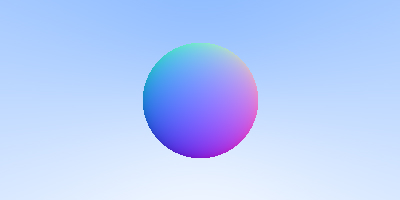
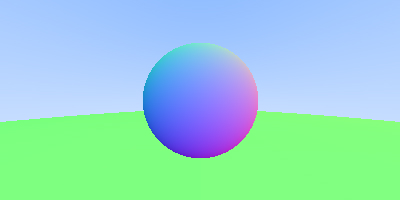
Added hitable classes + drawing the world with 2 spheres

diff --git a/main.cpp b/main.cpp
@@ -6,28 +6,16 @@
 #define STB_IMAGE_WRITE_IMPLEMENTATION
 
 #include "stb_image_write.h"
+#include "hitable.h"
+#include "sphere.h"
+#include "hitable_list.h"
 
 using namespace std;
 
-float hit_sphere(const vec3& center, float radius, const ray& r) {
-    vec3 oc = r.origin() - center;
-    float a = dot(r.direction(), r.direction());
-    float b = 2 * dot(oc, r.direction());
-    float c = dot(oc, oc) - radius*radius;
-    float discriminant = b*b - 4*a*c;
-    if (discriminant < 0) {
-        return -1.0;
-    } else {
-        return (-b - sqrt(discriminant)) / (2.0*a);
-    }
-}
-
-vec3 color(const ray& r) {
-    vec3 sphere_center(0.0, 0.0, -1.0);
-    float t = hit_sphere(sphere_center, 0.5, r);
-    if (t > 0.0) {
-        vec3 N = unit_vector(r.point_at_parameter(t) - sphere_center);
-        return 0.5*vec3(N.x()+1, N.y()+1, N.z()+1);
+vec3 color(const ray& r, hitable *world) {
+    hit_record rec;
+    if (world->hit(r, 0.0, MAXFLOAT, rec)) {
+        return 0.5*vec3(rec.normal.x()+1, rec.normal.y()+1, rec.normal.z()+1);
     }
     vec3 unit_direction = unit_vector(r.direction());
     float w = 0.5*(unit_direction.y() + 1.0);
@@ -61,6 +49,11 @@ int main() {
     vec3 vertical(0.0, -2.0, 0.0);
     vec3 origin(0.0, 0.0, 0.0);
 
+    hitable *list[2];
+    list[0] = new sphere(vec3(0, 0, -1), 0.5);
+    list[1] = new sphere(vec3(0, -100.5, -1), 100);
+    hitable *world = new hitable_list(list, 2);
+
     char *data=(char*)malloc(nx*ny*3);
 
     for (int j = ny-1; j >=0; j--) {
@@ -68,7 +61,7 @@ int main() {
             float u = float(i) / float(nx);
             float v = float(j) / float(ny);
             ray r(origin, upper_left_corner + u*horizontal + v*vertical);
-            vec3 col = color(r);
+            vec3 col = color(r, world);
             int serial_coord = j*nx + i;
             data[serial_coord*3] = char(255.99 * col.r());
             data[serial_coord*3+1] = char(255.99 * col.g());
@@ -77,6 +70,5 @@ int main() {
     }
 
     stbi_write_jpg("helloworld.jpg", nx, ny, 3, data, 100);
-
     return 0;
 }

diff --git a/sphere.h b/sphere.h
@@ -1,0 +1,44 @@
+//
+// Created by Evgeniy Oleinik on 2019-08-01.
+//
+
+#ifndef RAY_TRACER_SPHERE_H
+#define RAY_TRACER_SPHERE_H
+
+#include "hitable.h"
+
+class sphere: public hitable {
+public:
+    sphere() {}
+    sphere(vec3 cen, float r) {center = cen; radius = r;}
+    virtual bool hit(const ray& r, float t_min, float t_max, hit_record& rec) const;
+    vec3 center;
+    float radius;
+};
+
+bool sphere::hit(const ray& r, float t_min, float t_max, hit_record& rec) const {
+    vec3 oc = r.origin() - center;
+    float a = dot(r.direction(), r.direction());
+    float b = 2 * dot(oc, r.direction());
+    float c = dot(oc, oc) - radius*radius;
+    float discriminant = b*b - 4*a*c;
+    if (discriminant > 0) {
+        float root = (-b - sqrt(discriminant)) / (2.0*a);
+        if (t_min < root && root < t_max) {
+            rec.t = root;
+            rec.p = r.point_at_parameter(root);
+            rec.normal = (rec.p - center) / radius;
+            return true;
+        }
+        root = (-b + sqrt(discriminant)) / (2.0*a);
+        if (t_min < root && root < t_max) {
+            rec.t = root;
+            rec.p = r.point_at_parameter(root);
+            rec.normal = (rec.p - center) / radius;
+            return true;
+        }
+    }
+    return false;
+}
+
+#endif //RAY_TRACER_SPHERE_H

diff --git a/hitable_list.h b/hitable_list.h
@@ -1,0 +1,34 @@
+//
+// Created by Evgeniy Oleinik on 2019-08-01.
+//
+
+#ifndef RAY_TRACER_HITABLE_LIST_H
+#define RAY_TRACER_HITABLE_LIST_H
+
+#include "hitable.h"
+
+class hitable_list: public hitable {
+public:
+    hitable_list() {}
+    hitable_list(hitable **l, int n) {list = l; list_size = n;}
+    virtual bool hit(const ray& r, float t_min, float t_max, hit_record& rec) const;
+    hitable **list;
+    int list_size;
+};
+
+bool hitable_list::hit(const ray& r, float t_min, float t_max, hit_record& rec) const {
+    hit_record temp_rec;
+    bool hit_anything = false;
+    float closest_hit = t_max;
+    for (int i=0; i<list_size; i++) {
+        if (list[i]->hit(r, t_min, closest_hit, temp_rec)) {
+            hit_anything = true;
+            closest_hit = temp_rec.t;
+            rec = temp_rec;
+        }
+    }
+    return hit_anything;
+}
+
+
+#endif //RAY_TRACER_HITABLE_LIST_H

diff --git a/hitable.h b/hitable.h
@@ -1,0 +1,21 @@
+//
+// Created by Evgeniy Oleinik on 2019-08-01.
+//
+
+#ifndef RAY_TRACER_HITABLE_H
+#define RAY_TRACER_HITABLE_H
+
+#include "ray.h"
+
+struct hit_record {
+    float t;
+    vec3 p;
+    vec3 normal;
+};
+
+class hitable {
+public:
+    virtual bool hit(const ray& r, float t_min, float t_max, hit_record& rec) const = 0;
+};
+
+#endif //RAY_TRACER_HITABLE_H
